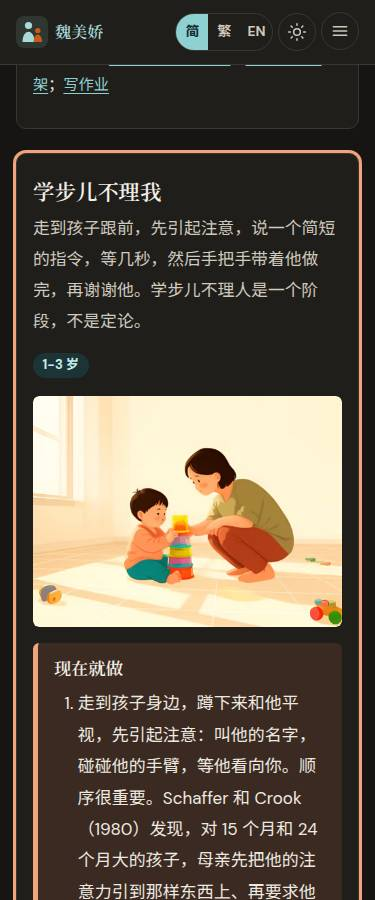
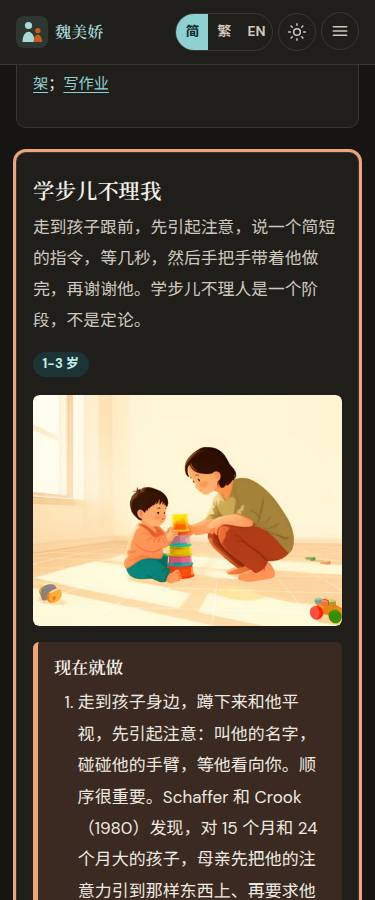
UI check screenshots of the final build (source lists laid out for real): 165 views at 375px and 1280px in three locales plus dark mode, no problems
Claude-Session: https://claude.ai/code/session_011prRosUexru1BiUZr8SRT9

diff --git a/docs/screenshots/ui-check.md b/docs/screenshots/ui-check.md
@@ -1,4 +1,4 @@
-# UI check (2026-10-05 01:52 UTC)
+# UI check (2026-10-05 02:20 UTC)
 
 165 page views: 18 pages x 3 locales x (375px light, 1280px light, 375px dark), plus the home page at 320px in each locale. Screenshots show the first screen, or the section a view's anchor names; overflow, header, console, image and request checks cover the whole page.
 
